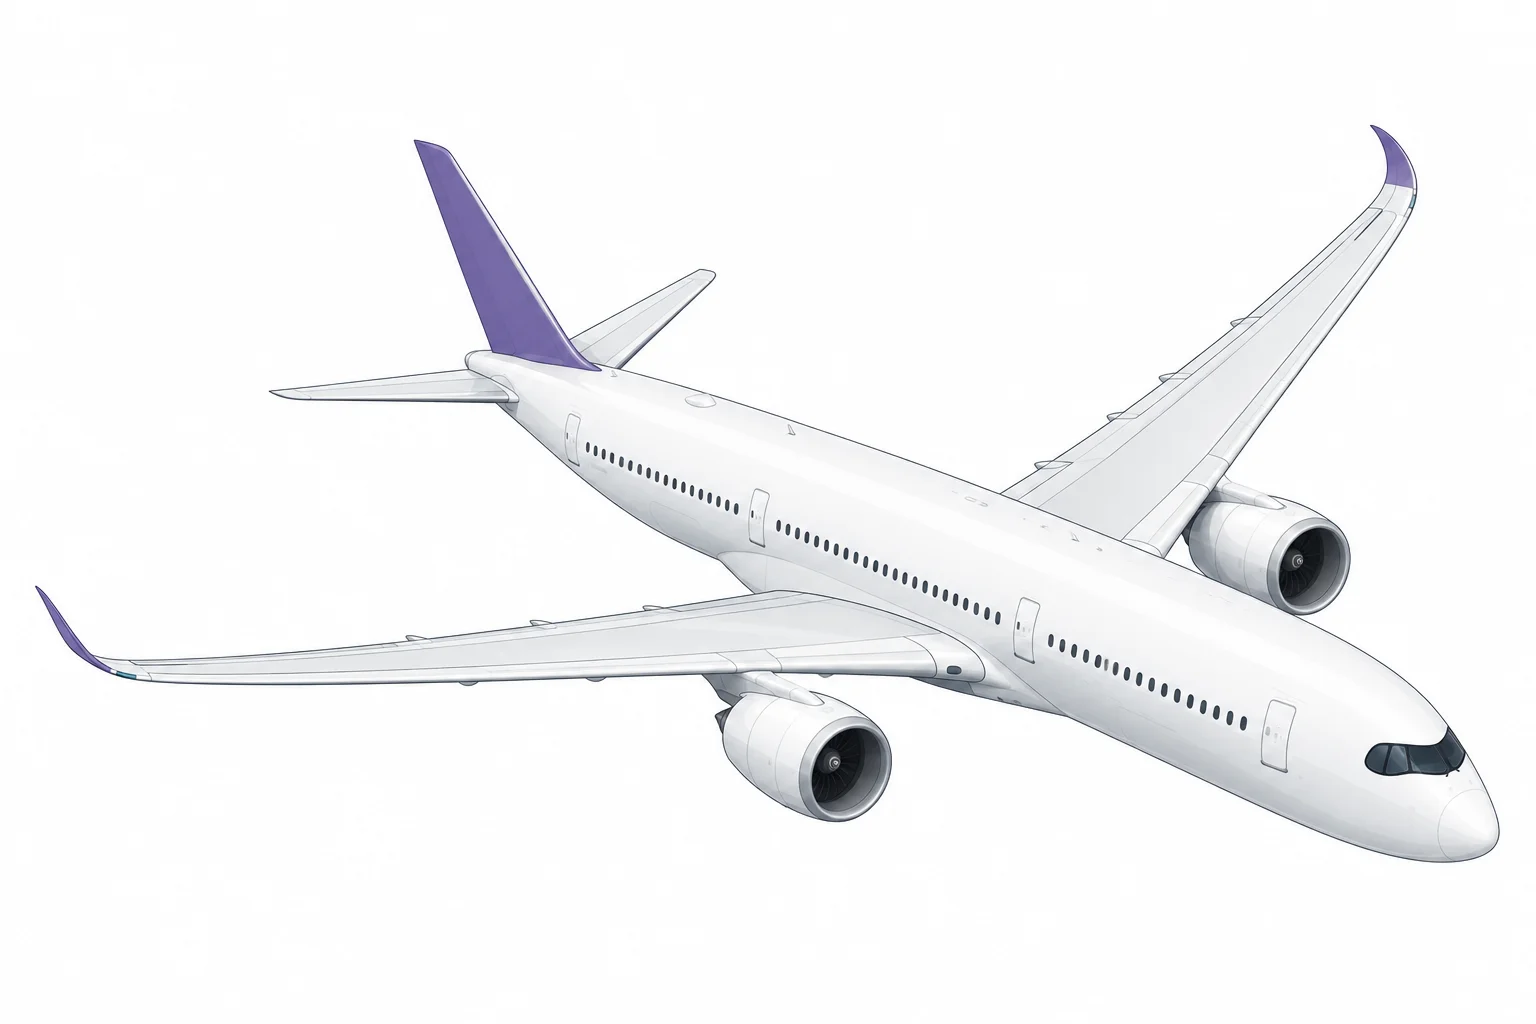
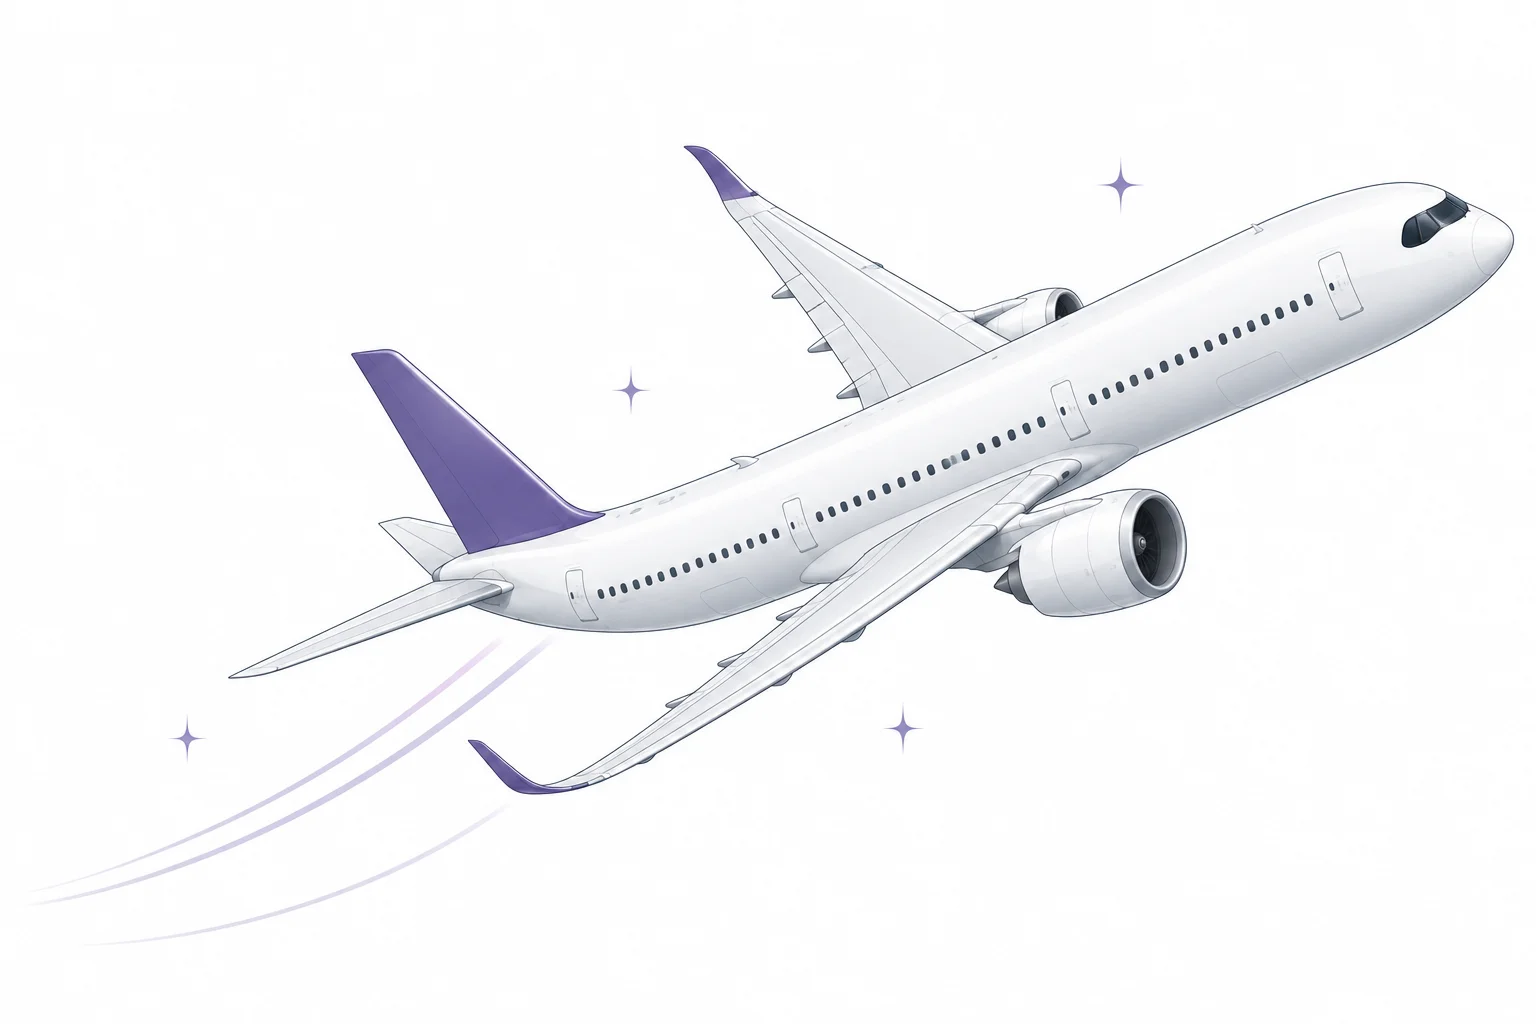
Turn auth aircraft upward with subtle flight trails and stars

diff --git a/components/auth-aircraft.tsx b/components/auth-aircraft.tsx
@@ -4,7 +4,7 @@ export function AuthAircraft() {
   return <figure className="mx-auto mt-5 w-full max-w-xl sm:mt-8">
     <Image
       src="/images/auth-aircraft.webp"
-      alt="A passenger jet with two swept wings, twin engines and a purple tail, illustrated against a white background."
+      alt="A white passenger jet with a purple tail climbing toward the upper right, surrounded by subtle lavender flight trails and small sparkle stars."
       width={1536}
       height={1024}
       sizes="(min-width: 1024px) 576px, (min-width: 640px) 80vw, 100vw"
